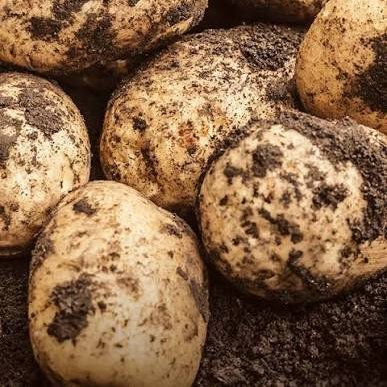
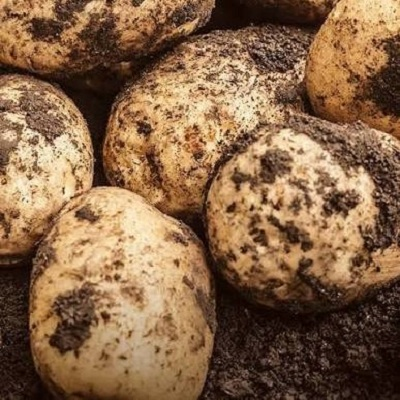
Started adding content to the uses of potatos and potato types and why plant potatoes

diff --git a/Index.html b/Index.html
@@ -12,12 +12,17 @@
         <h1 class="header">Potato</h1>
     </section>
     <h2 class="introh2">
-        Hello world
+        Why should you start growing potatoes?
         </h2>
       <!--Two columns layout start-->
       <section class="intro">
-        <div class="text">
-            Hello World
+        <div class="text-1">
+           <p>1. They easy to grow and don't require much maintenence or space.</p> 
+           <p>2. A seed potatoes can turn into lots more potatoes. </p>
+           <p>3. Homegrown potatoes are fresher and can be stored for months.</p>
+           <p>4. Potatoes provide lots of carbohydrates</p>
+           <p>5. They can be prepared and seasoned in lots of ways.</p>
+           <p>6. You like eating poatoes.</p>
         </div>
         <div class="intro-img">
             <img src="./Images/intro-potato.jpg" alt="potato-garden" class="img">
@@ -26,24 +31,24 @@
       </section>
       <!---grid heading-->
       <section class=" gridhead">
-        Potatoes
+        Examples of potato types
       </section>
       <!---A grid layout of Potato types-->
       <section class="grid">
       <div class="Potato-img">
       <img src="./Images/agria.jpg" alt="Agria" class="grid-img">
             <div class="image-text">Agria Potato</div>
-      <p>Its a potato</p>
+      <p class="gridtext">The Agria potato is a floury potato. It has lots of starch but little moisture. That means it can fall apart being boiled. Their best use is roasted potatoes, chips, fries and mashed potatoes.</p>
       </div>
       <div class="Potato-img">
       <img src="./Images/jersey-benne.jpg" alt="Jersey-Benne" class="grid-img">
             <div class="image-text">Jersey Benne Potato</div>
-      <p>Its a potato</p>
+      <p class="gridtext">The Jersey Benne potato is a waxy potato and doesn't fall apart when boiled because of there dense structure. These poatoes have high moisture and little starch. They can be boiled whole and good ingredient into making stew, soup or even a salad.</p>
       </div>
       <div class="Potato-img">
       <img src="./Images/rua.jpg" alt="Rua" class="grid-img">
             <div class="image-text">Rua Potato</div>
-      <p>Its a potato</p>
+      <p class="gridtext">The Rua potato is an all-round potato. They have medium starch and moisture. Rua poatoes are half waxy and half floury. Because it's versitile and a all-rounder, it can be used for boiling, mashing and baking.</p>
       </div>
       </section>
       <!---Grid variation for uses of potatoes-->
@@ -59,7 +64,7 @@
       Some random word i wrote
         </div>
           <div class="grid2-text">
-      Some random word i wrote
+      Because of the many types of potaoes (3 examples above), you can make a big variety of poatoes like baked Agria potatoes. They contain lots of complex carbohydrates so you can get lots of energy. Potatoes are also the 3rd place staple crop just under wheat and rice. A single medium sized potato contains high levels of Vitamin C (20-27mg), Vitamin B6 (0.5mg), and Potassiun(620 - 890mg which is more than the 420mg form a banana). Vitamin is good for repairing tissues, absorbing iron and boost your immune systems by fighting colds and infections. Vitamin B6 helps regulates moods, energy and keeps the circulatory system healthy.  Poattsium helps you get less muscle cramps, levels blood pressure and makes sure your cells are hydrated.
         </div>
         <div class="grid2-grid">
           <div class="titlebox">Home cooking</div>

diff --git a/Style.css b/Style.css
@@ -33,17 +33,20 @@ body{
 .intro{
     display: grid;
     grid-template-columns: 3fr 2fr;
-    margin: 35px 0px 0px 35px;
+    margin: 35px 0px 35px 35px;
     gap: 20px;
 }
 
 .introh2{
     text-align: center;
     margin-bottom: 100px;
+    color: #523921;
+;
 }
 
-.text{
+.text-1{
     font-size: 20px;
+    color:#2C2520;
 }
 
 .image-text{
@@ -58,16 +61,26 @@ body{
     font-size: 35px;
     font-family: "Lora-Local", serif;
     color:#523921;
+    padding: 20px;
+    font-weight: bold;
 }
 
 .grid{
     display: grid;
     grid-template-columns: 1fr 1fr 1fr;
-    padding: 35px 35px 0px 35px;
+    padding: 35px;
     gap: 30px;
     min-height: 300px;
     background-color: #EAD7B7;
+    height: auto;
+    align-items: start; /*keeps boxs  thatsame length*/
+    
+}
 
+.gridtext{
+    font-size: 20px;
+    font-family: "Lota-Local, serif";
+    color: #2C2520;
 }
 
 .Potato-img{
@@ -75,6 +88,7 @@ body{
     flex-direction: column;
     align-items: center;
     text-align: center;
+    height: auto;
 }
 
 .grid-img{
@@ -86,22 +100,29 @@ body{
     display: grid;
     grid-template-columns: 1fr 1fr 1fr;
     padding: 15px 25px 15px 25px;
-    gap: 20px;
+    gap: 10px;
+    max-height: 1000px;
 }
 
 .grid2-text{
     text-align: center;
-    font-family: "Lota-Local,serif";
+    font-family: "Lota-Local",serif;
     color: #2C2520;
+    margin-top: 130px;
+    line-height: 1.5;
+    font-size: 18px;
 }
 .titlebox{
     height: 88px;
-    width: 427px;
+    width: 100%;
     background-color: #EAD7B7;
     margin-bottom: 15px ;
     display: flex;
     justify-content: center;
     align-items: center;
+    font-family: "Lora-Local",serif;
+    font-size: 25px;
+    color: #523921;
 }
 
 .grid2-grid{
@@ -123,13 +144,13 @@ body{
 .bannertext1{
     text-align: center;
     font-family: "Lora-Local", serif;
-    color: #FAF8E5;
+    color: #523921;
     font-size: 30px;
 }
 
 .bannerbg1{
     height: 100px;
-    background-color: #523921;
+    background-color:#D8C3A5;;
     display: flex;
     align-items: center;
     justify-content: center;
